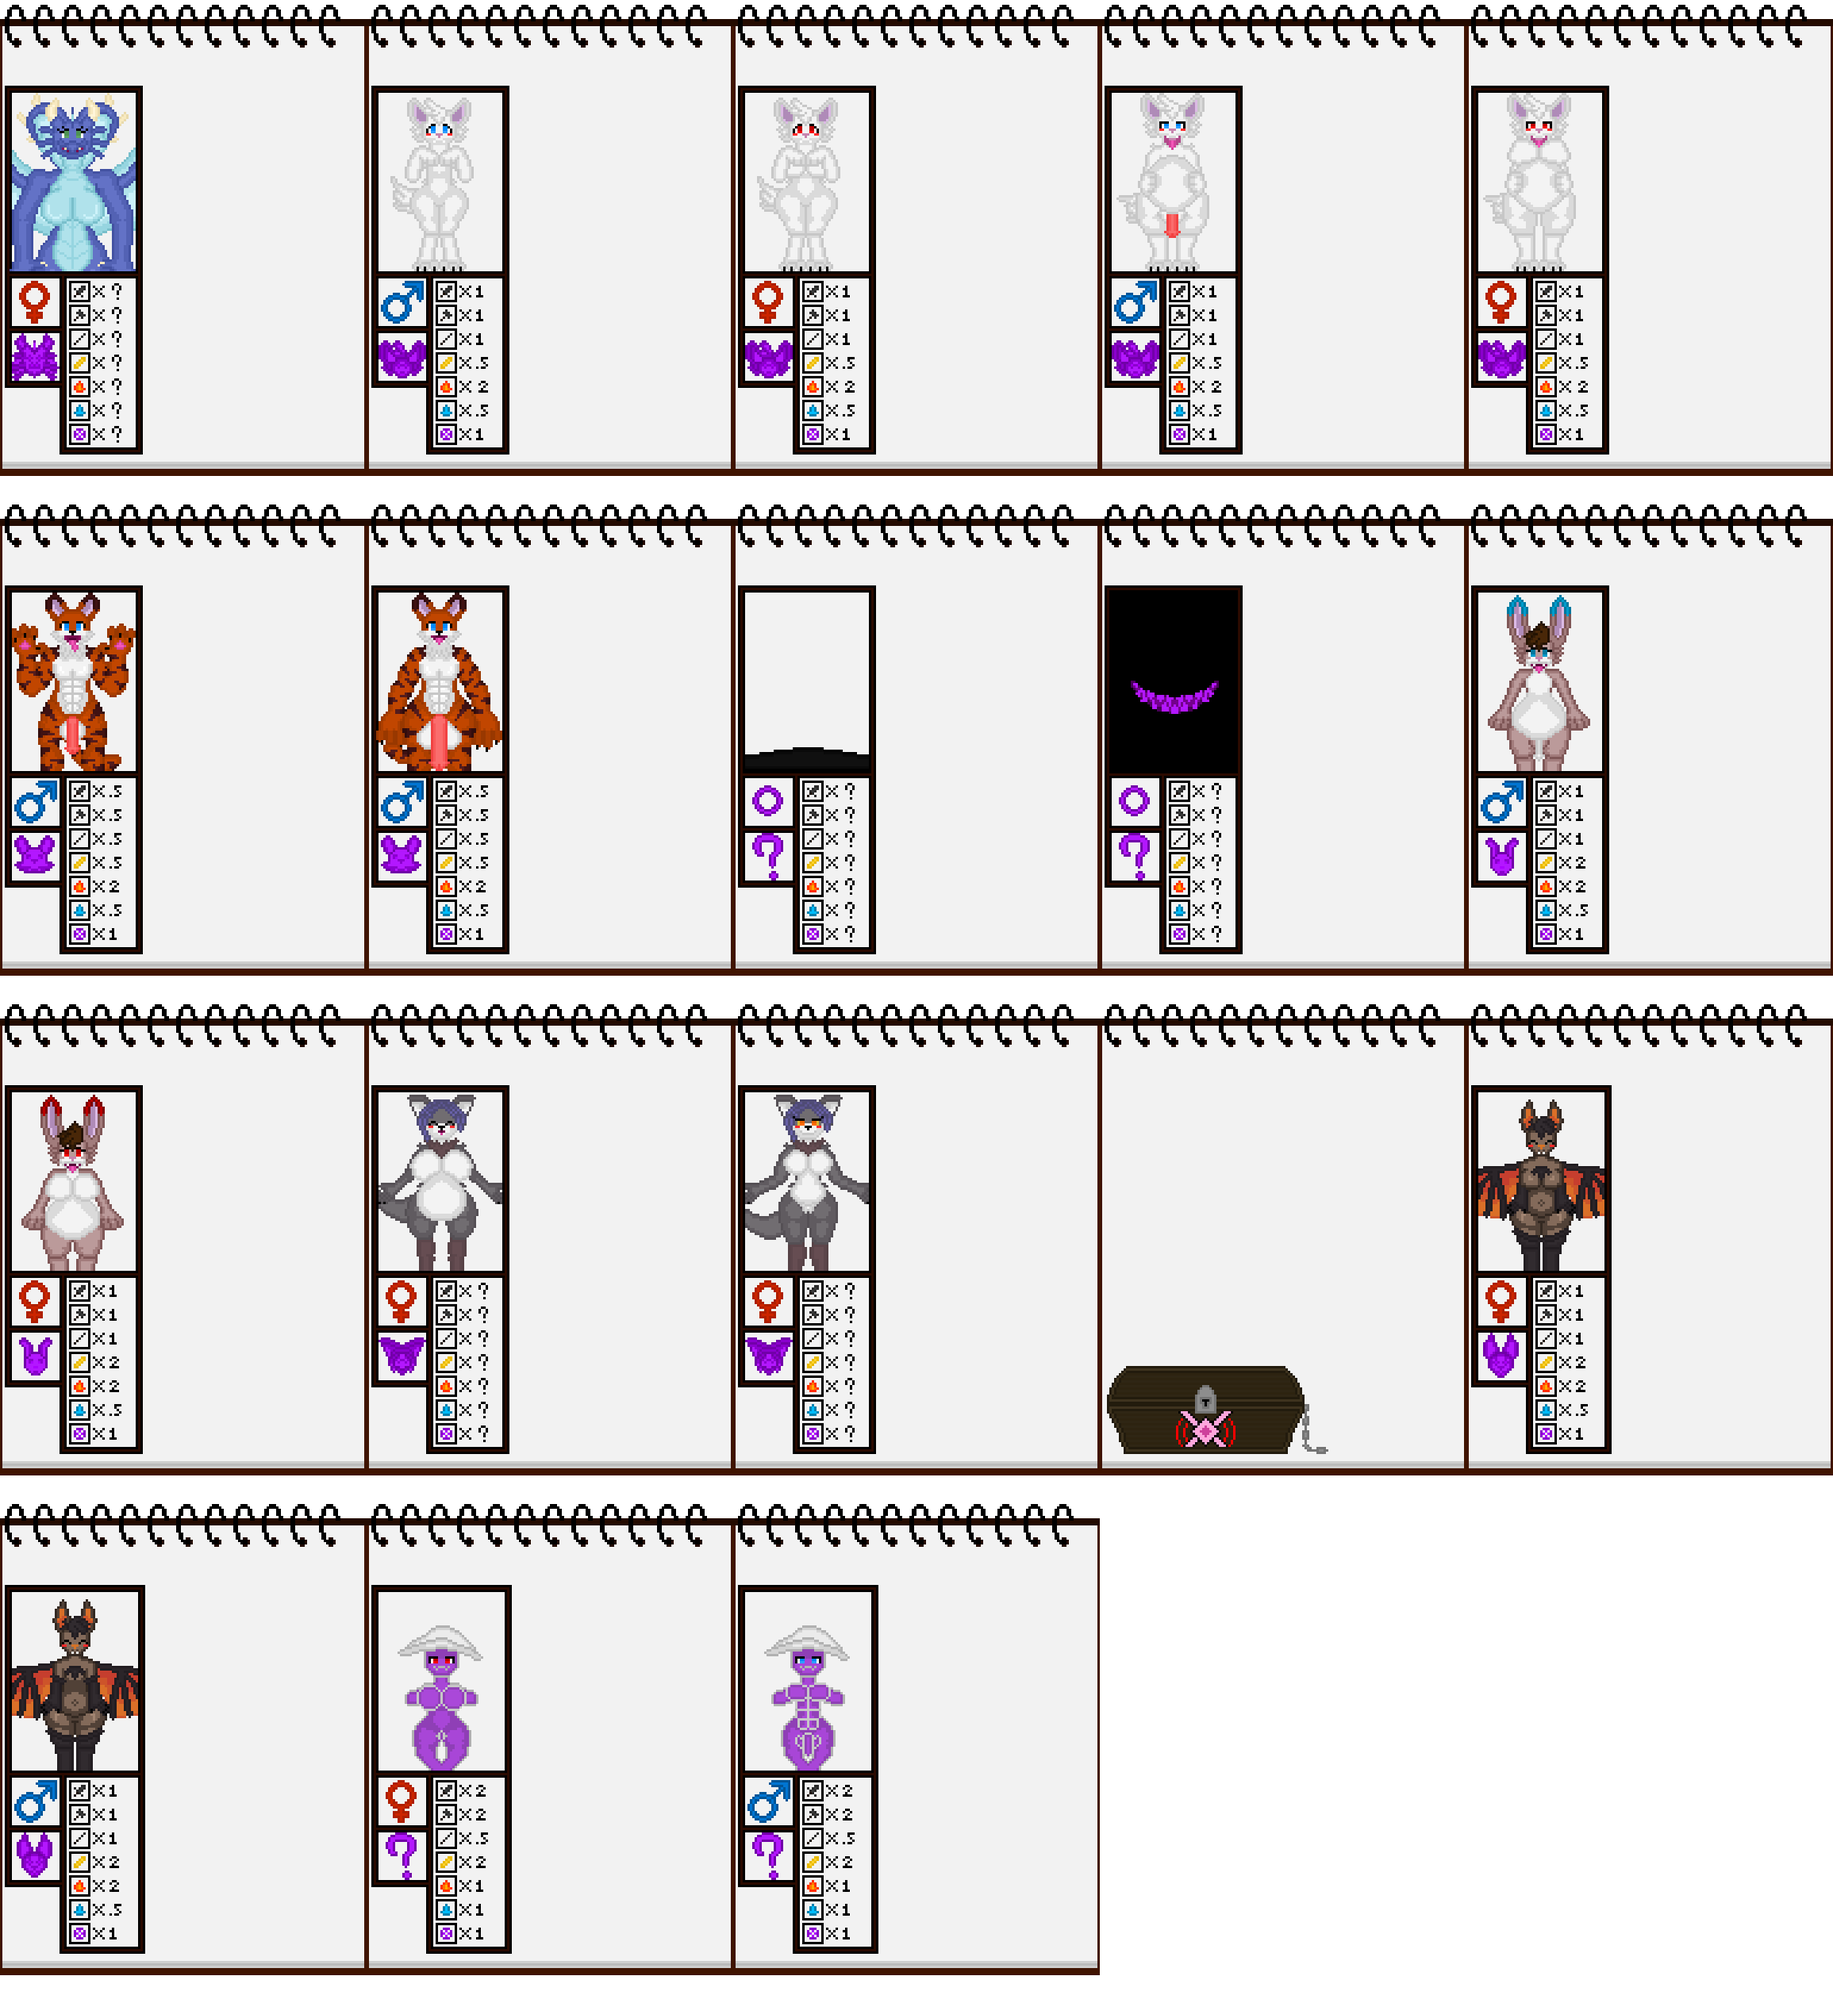
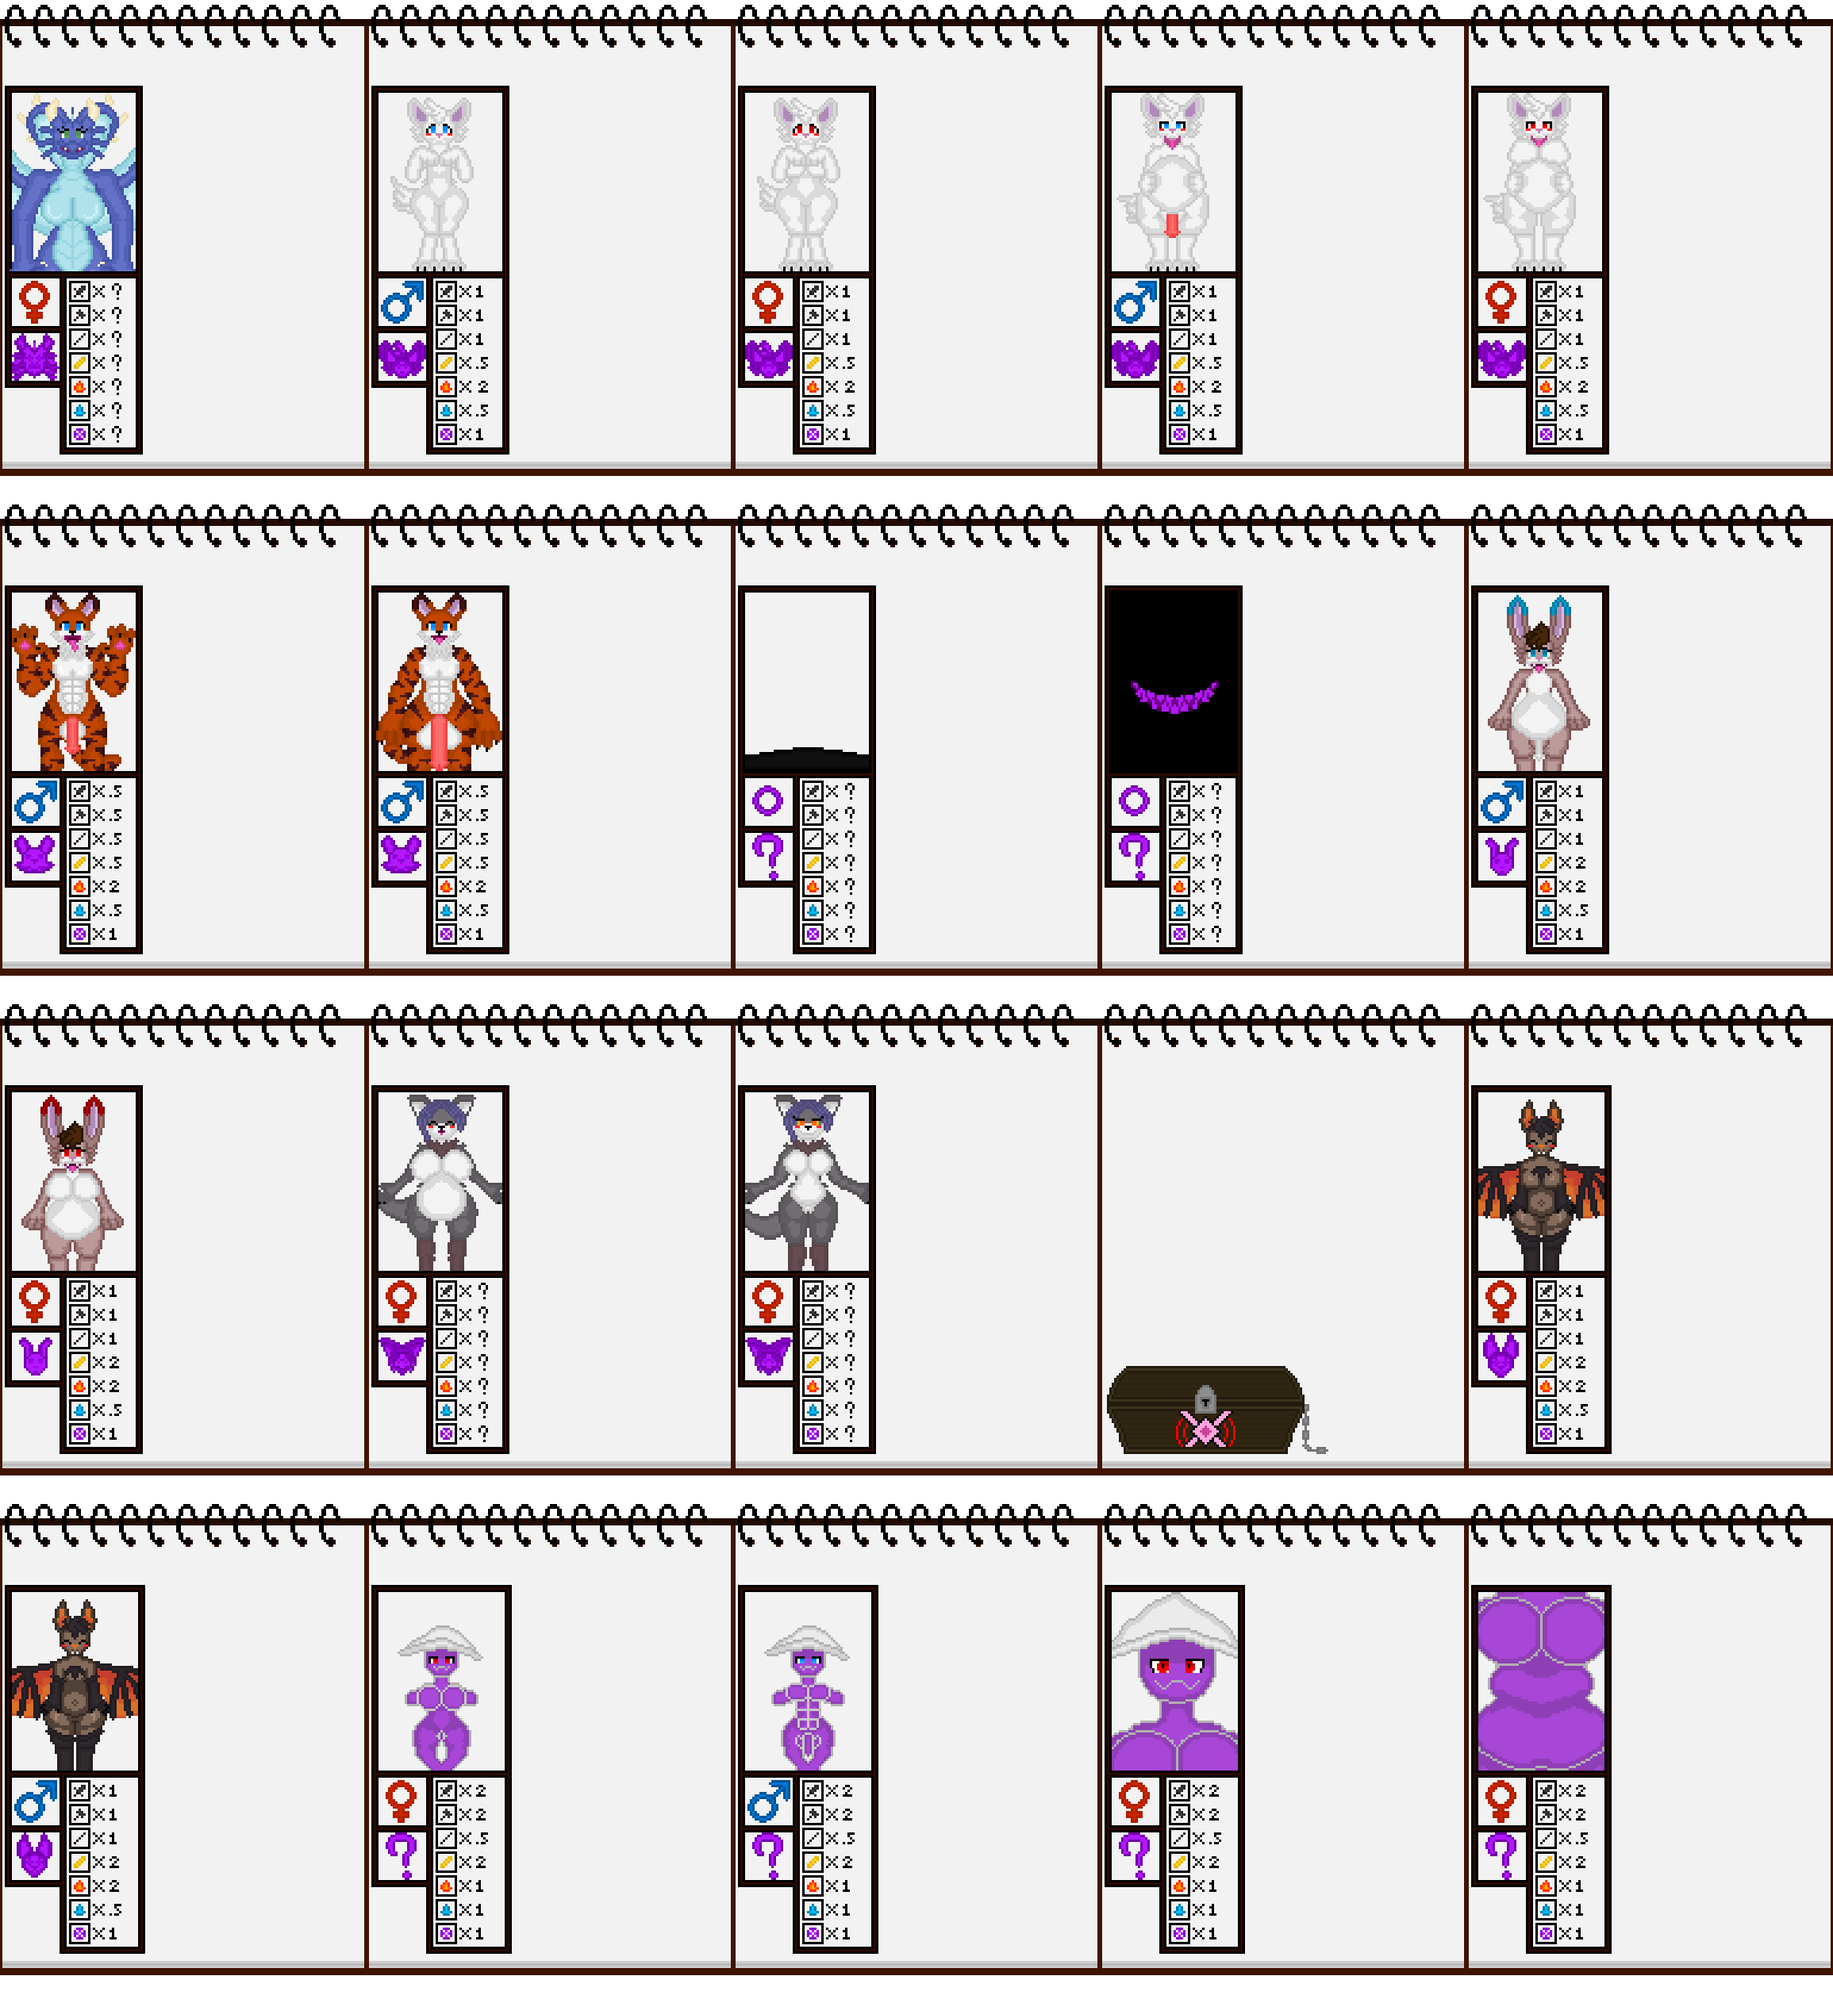
saving secret shadow bug fix

Changed region(s): [[0.5922, 0.7429, 1.0, 0.9905]]

diff --git a/scripts/sceneScripts/sceneHirarchy/G8InitEnemys.js b/scripts/sceneScripts/sceneHirarchy/G8InitEnemys.js
@@ -751,42 +751,78 @@ class G8InitEnemys extends G7EnemyCollisions{
         tempSceneRef.enemys.add(shadow);
         tempSceneRef.curseShadows.add(shadow);
 
-        tempSceneRef.physics.add.overlap(tempSceneRef.player1.mainHitbox, shadow.grabHitBox, function () {
+        if(inSafeMode === false){
 
-          let isWindowObject = {
-            isOpen: null
-          };
-        
-          inventoryKeyEmitter.emit(inventoryKey.isWindowOpen,isWindowObject);
+          tempSceneRef.physics.add.overlap(tempSceneRef.player1.mainHitbox, shadow.grabHitBox, function () {
 
-          if (isWindowObject.isOpen === true) {
-            inventoryKeyEmitter.emit(inventoryKey.activateWindow,tempSceneRef);
+            let isWindowObject = {
+              isOpen: null
+            };
+          
+            inventoryKeyEmitter.emit(inventoryKey.isWindowOpen,isWindowObject);
 
-          }
+            if (isWindowObject.isOpen === true) {
+              inventoryKeyEmitter.emit(inventoryKey.activateWindow,tempSceneRef);
 
-          if (shadow.grabCoolDown === false && tempSceneRef.grabCoolDown === false && tempSceneRef.player1.lanturnFlicker === null) {
-            //stop the velocity of the player
-            shadow.setVelocityX(0);
-            tempSceneRef.player1.mainHitbox.setVelocityX(0);
-            //calls the grab function
-            shadow.grab();
-            //sets the scene grab value to true since the player has been grabbed
-            // tells instance of slime that it has grabbed player
-            shadow.grabCoolDown = true;
-            shadow.playerGrabbed = true;
-            tempSceneRef.grabbed = true;
-            tempSceneRef.grabCoolDown = true;
-            console.log('player grabbed by shadow');
-          }
-        });
+            }
+
+            if (shadow.grabCoolDown === false && tempSceneRef.grabCoolDown === false && tempSceneRef.player1.lanturnFlicker === null) {
+              //stop the velocity of the player
+              shadow.setVelocityX(0);
+              tempSceneRef.player1.mainHitbox.setVelocityX(0);
+              //calls the grab function
+              shadow.grab();
+              //sets the scene grab value to true since the player has been grabbed
+              // tells instance of slime that it has grabbed player
+              shadow.grabCoolDown = true;
+              shadow.playerGrabbed = true;
+              tempSceneRef.grabbed = true;
+              tempSceneRef.grabCoolDown = true;
+              console.log('player grabbed by shadow');
+            }
+          });
+        }
 
       },
       earieShadow: function earieShadowFunction(startX, startY, playerSex,inSafeMode) {
-        let earieS = new EarieShadow(tempSceneRef, startX, startY, playerSex,tempSceneRef.enemyId,inSafeMode);
+        let shadow = new EarieShadow(tempSceneRef, startX, startY, playerSex,tempSceneRef.enemyId,inSafeMode);
         tempSceneRef.enemyId++;
-        console.log("created earieShadows id: ",earieS.enemyId);
-        tempSceneRef.enemys.add(earieS);
-        tempSceneRef.earieShadows.add(earieS);
+        console.log("created earieShadows id: ",shadow.enemyId);
+        tempSceneRef.enemys.add(shadow);
+        tempSceneRef.earieShadows.add(shadow);
+
+        if(inSafeMode === false){
+
+          tempSceneRef.physics.add.overlap(tempSceneRef.player1.mainHitbox, shadow.grabHitBox, function () {
+
+            let isWindowObject = {
+              isOpen: null
+            };
+          
+            inventoryKeyEmitter.emit(inventoryKey.isWindowOpen,isWindowObject);
+
+            if (isWindowObject.isOpen === true) {
+              inventoryKeyEmitter.emit(inventoryKey.activateWindow,tempSceneRef);
+
+            }
+
+            if (shadow.grabCoolDown === false && tempSceneRef.grabCoolDown === false && tempSceneRef.player1.lanturnFlicker === null) {
+              //stop the velocity of the player
+              shadow.setVelocityX(0);
+              tempSceneRef.player1.mainHitbox.setVelocityX(0);
+              //calls the grab function
+              shadow.grab();
+              //sets the scene grab value to true since the player has been grabbed
+              // tells instance of slime that it has grabbed player
+              shadow.grabCoolDown = true;
+              shadow.playerGrabbed = true;
+              tempSceneRef.grabbed = true;
+              tempSceneRef.grabCoolDown = true;
+              console.log('player grabbed by shadow');
+            }
+          });
+        }
+
       },
 
       mushroom: function mushroomFunction(startX, startY, playerSex,inSafeMode,rootNode) {

diff --git a/scripts/sceneScripts/sceneHeads/emitters.js b/scripts/sceneScripts/sceneHeads/emitters.js
@@ -505,8 +505,12 @@ const bestiaryTextList = {
         summary: "This male mushroom will spread its spores to infect prey; once a prey has been fully infected, a mushroom will slowly take over its body. Absorbing them, and spreading the fungus.",
       },
       matangoRoot_female_unbirth:{
-        title: "MALE MUSHROOM NODE",
-        summary: "This male mushroom will spread its spores to infect prey; once a prey has been fully infected, a mushroom will slowly take over its body. Absorbing them, and spreading the fungus.",
+        title: "FEMALE MATANGO UB",
+        summary: "Matangos like to trap prey within their womb to melt them down and reproduce. The new mycelium network born is covered in nutrient-rich fluids, which are used to help the baby network grow.",
+      },
+      matangoRoot_female_absorb:{
+        title: "FEMALE MATANGO ABSORB",
+        summary: "Once awakened, the matango root will employ various methods to defend itself. One such method is trying to engulf its attacker inside its gooey outer body. Once the prey is subdued, it pleasures the prey so the absorption process and melding go smoothly.",
       },
 
       back: {

diff --git a/scripts/uiScripts/inventoryScripts/bestiary.js b/scripts/uiScripts/inventoryScripts/bestiary.js
@@ -50,6 +50,8 @@ class bestiary extends Phaser.Physics.Arcade.Sprite {
     this.anims.create({ key: bestiaryKey.batMaleTF, frames: this.anims.generateFrameNames('bestiary2', { start: 15, end: 15 }), frameRate: 7, repeat: -1 });
     this.anims.create({ key: bestiaryKey.mushroomFemaleTF, frames: this.anims.generateFrameNames('bestiary2', { start: 16, end: 16 }), frameRate: 7, repeat: -1 });
     this.anims.create({ key: bestiaryKey.mushroomMaleTF, frames: this.anims.generateFrameNames('bestiary2', { start: 17, end: 17 }), frameRate: 7, repeat: -1 });
+    this.anims.create({ key: bestiaryKey.matangoRootFemaleUnbirth, frames: this.anims.generateFrameNames('bestiary2', { start: 18, end: 18 }), frameRate: 7, repeat: -1 });
+    this.anims.create({ key: bestiaryKey.matangoRootFemaleAbsorb, frames: this.anims.generateFrameNames('bestiary2', { start: 19, end: 19 }), frameRate: 7, repeat: -1 });
     // the default animation for bestiary should be closed.
     this.anims.play("closed");
 

diff --git a/scripts/enemyScripts/bosses/matangoRoot.js b/scripts/enemyScripts/bosses/matangoRoot.js
@@ -523,7 +523,7 @@ class matangoRoot extends matangoRootUnbirth {
 
             //puts the key display in the correct location.
             this.scene.KeyDisplay.x = this.x;
-            this.scene.KeyDisplay.y = this.y + 100;
+            this.scene.KeyDisplay.y = this.y + 96;
 
             //displays the give up option on screen
             giveUpIndicatorEmitter.emit(giveUpIndicator.activateGiveUpIndicator,true);
